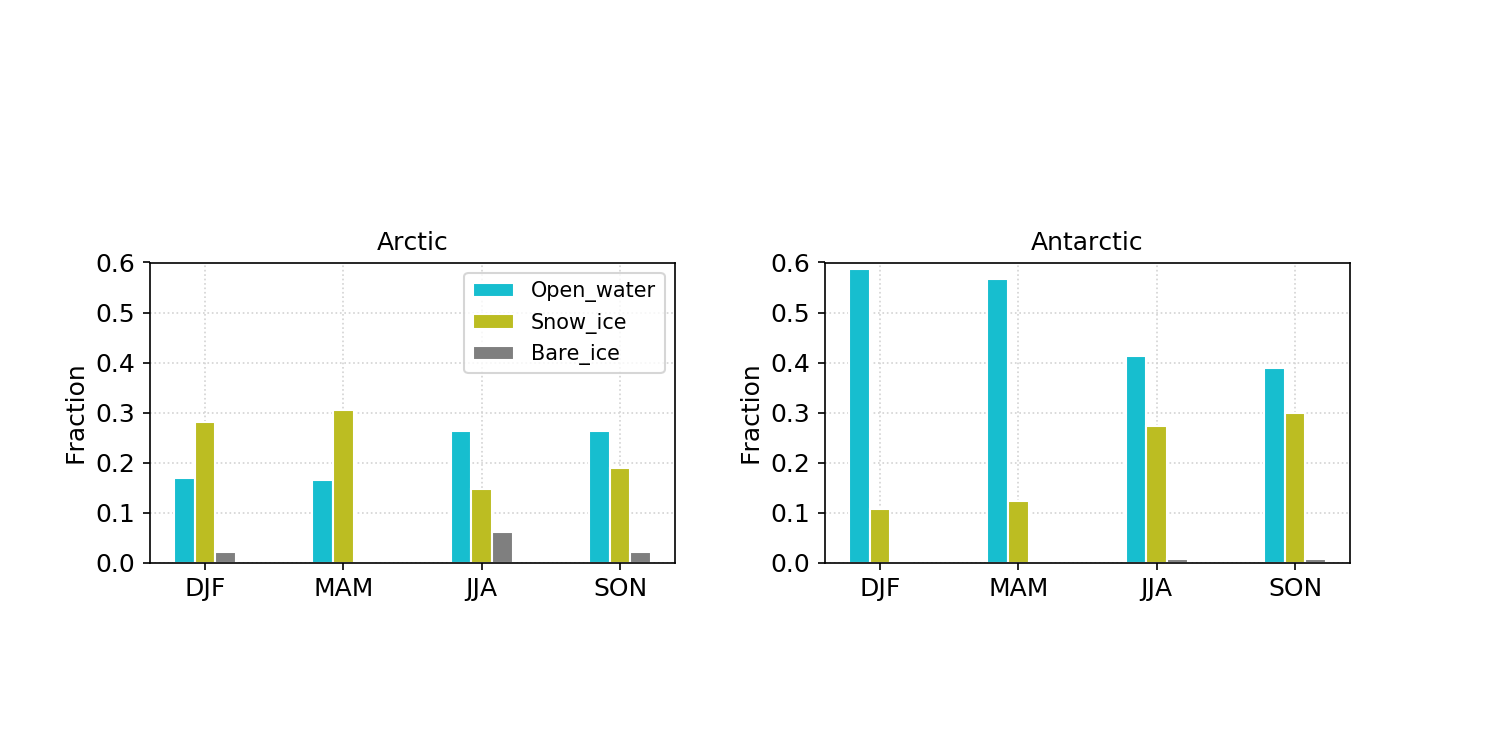
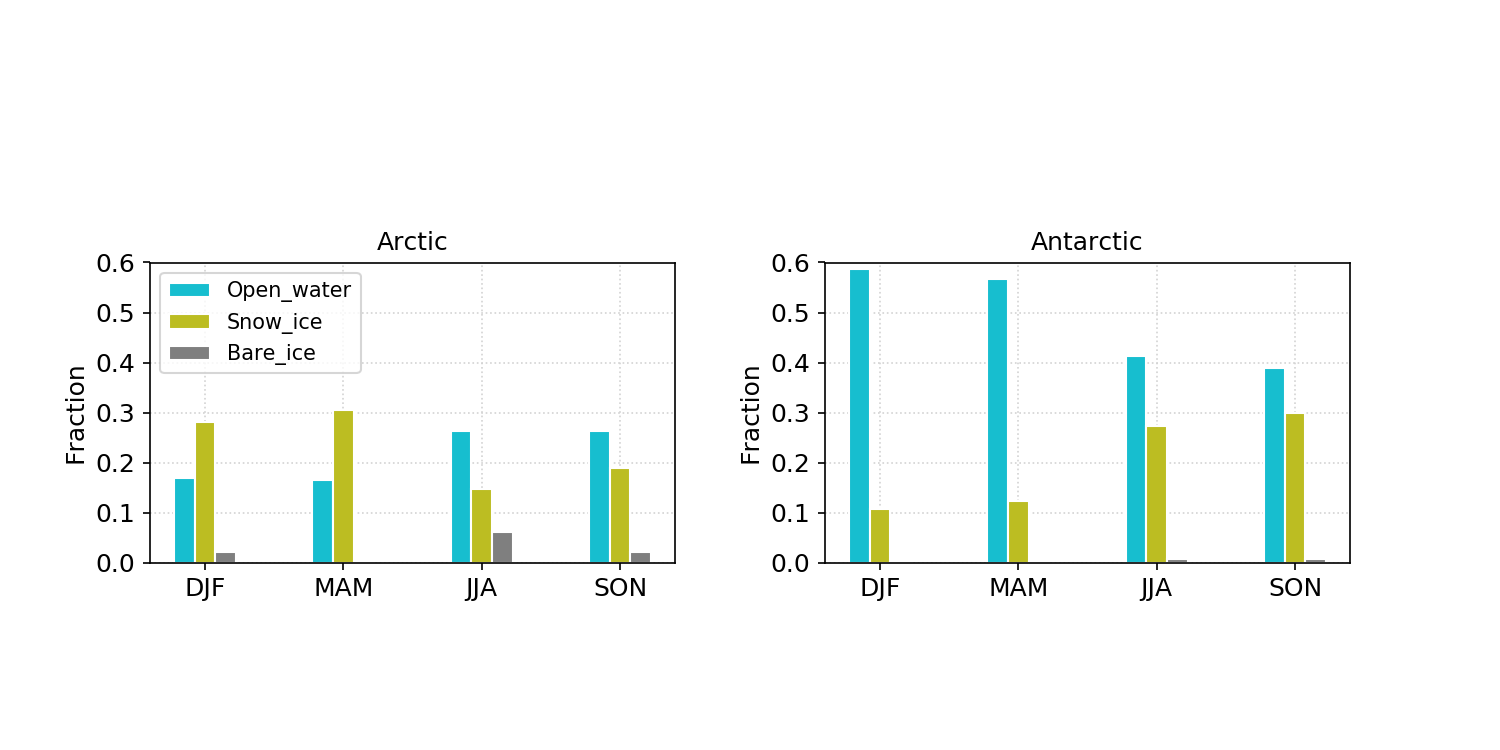
modify legend location

Changed region(s): [[0.092, 0.368, 0.2453, 0.4907], [0.3067, 0.368, 0.4293, 0.4907]]

diff --git a/plots/plot_bar_OCN_ICE_fraction.py b/plots/plot_bar_OCN_ICE_fraction.py
@@ -116,7 +116,7 @@ ax1.xaxis.grid(color='lightgray', linestyle=':')
 ax1.yaxis.grid(color='lightgray', linestyle=':')
 plt.xticks(x,bands,rotation=0,fontsize=12)
 plt.yticks(fontsize=12)
-ax1.legend(fontsize=10)
+ax1.legend(fontsize=10,loc="upper left")
 
 ax2=fig.add_axes([0.55,0.25,0.35,0.4])
 ax2.bar(x-0.3,means_SH[:,0],width=0.3,color=color1,label="Open_water",edgecolor="white")
